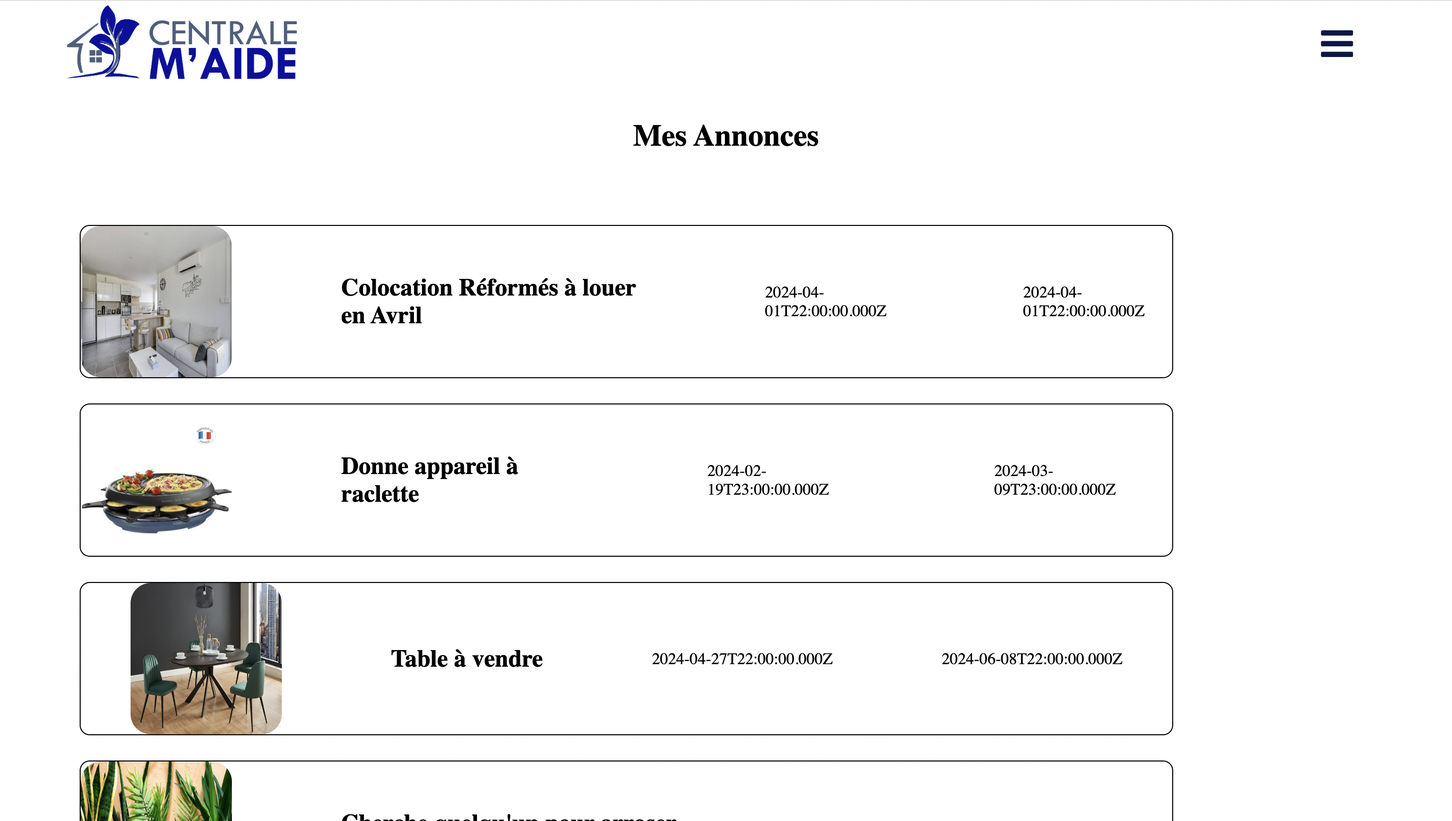
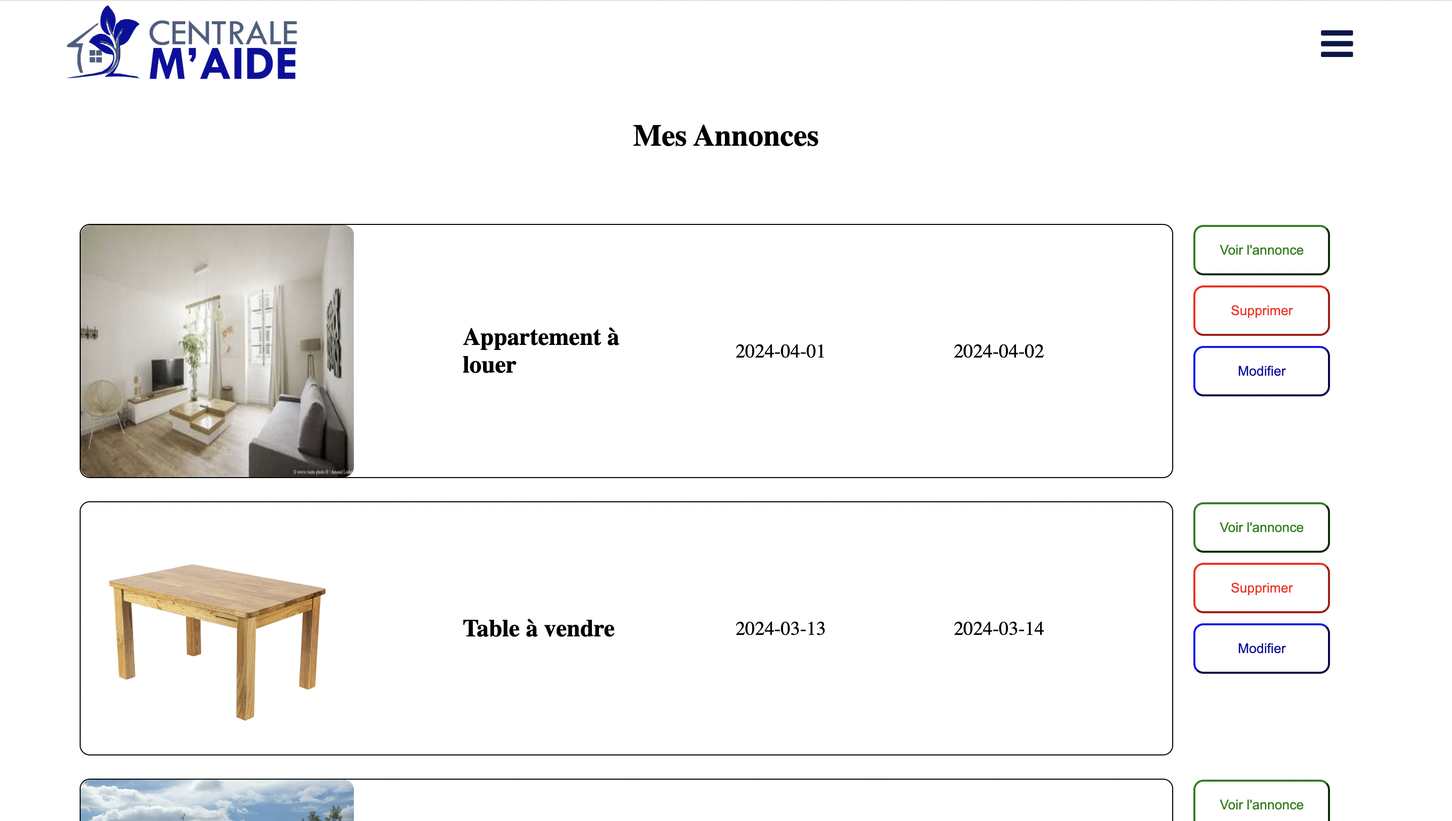
Update Images Projet 3A

diff --git a/src/promos/2023-2024/Beyaert-Alexandre/pok/temps-3/index.md b/src/promos/2023-2024/Beyaert-Alexandre/pok/temps-3/index.md
@@ -15,7 +15,7 @@ résumé: Un POK traitant de la transformation de la Supply Chain à l'ère de l
 
 
 ## Contexte
-Très concerné par l'industrie et la Supply Chain - y ayant déjà été confronté lors de ma césure via un stage chez L'Oréal et souhaitant y faire mon cadre de carrière - je souhtaite réaliser un POK dans le but d'accroître ma connaissance de la Supply Chain, en particulier les enjeux auxquels elle se retrouve confronté face à la digitalisation des industries.
+Très concerné par l'industrie et la Supply Chain - y ayant déjà été confronté lors de ma césure via un stage chez L'Oréal et souhaitant y faire mon cadre de carrière - je souhaite réaliser un POK dans le but d'accroître ma connaissance de la Supply Chain, en particulier les enjeux auxquels elle se retrouve confronté face à la digitalisation des industries.
 
 Le but du 1er sprint serait de faire un état de l'art de cette thématique : sur les enjeux d'Industrie 4.0 de Lean Management, un focus sur certaines technologies et les risques qu'ils font encourir à la Supply Chain.
 
@@ -24,17 +24,17 @@ Le 2ème sprint consisterait en la préparation d'une grille d'entretien pour qu
 ## Horodateur des sprints
 
 **Sprint 1 : état de l'art**
-| Timing | Notions de bases, définitions | SC & I4.0 | I4.0 & Lean Management | Applications concrètes d'IA et IoT dans la SC | Riskis in Digital Supply Chain |
+| Timing | Notions de bases, définitions | SC & I4.0 | I4.0 & Lean Management | Applications concrètes d'IA et IoT dans la SC | Risks in Digital Supply Chain |
 | -------| -------- | -------- | -------- | -------- | -------- |
 | Sprint 1 - Temps prévu (en heures) | 2 | 4 | 2 | 2 | 2 |
 | Sprint 1 - Temps dédié (en heures) | 2 | 5 | 3 | 2 | 2 |
 
 
 **Sprint 2**
-| Timing | Identification des intervenants | Lecture de nouveaux articles (Covid / résilience / énergie...) | Grille d'entretien | Entretiens | Analyse & Restitution |
+| Timing | Identification des intervenants | Lecture d'articles | Grille d'entretien | Entretiens | Analyse & Restitution |
 | -------| -------- | -------- | -------- | -------- | -------- |
-| Sprint 2 - Temps prévu (en heures) | 1 | 3 | 2 | 3 | 2 |
-| Sprint 2 - Temps dédié (en heures) | ? | ? | ? | ? | ? |
+| Sprint 2 - Temps prévu (en heures) | 1 | 3 | 2 | 2 | 2 |
+| Sprint 2 - Temps dédié (en heures) | 1 | 4 | 2 | 2 | 2 |
 
 
 ## Sommaire
@@ -126,7 +126,16 @@ Un bon exemple prend racine dans une étude proposée sur le Groupe Volvo. [9]
 
 #### Takt Time, Cycle Time & Lead Time : les métriques temporelles de la Supply Chain
 
-https://www.picomto.com/comprendre-le-lead-time-takt-time-et-cycle-time/
+**Takt Time**: rythme de production nécessaire pour répondre à la demande des clients, exprimé comme le temps moyen pour produire un produit.
+Calcul : Temps disponible divisé par la demande du client (en nombre d'unités).
+
+**Cycle Time**: temps nécessaire pour accomplir une opération spécifique, mesuré de son début à sa fin.
+Utilité : Dimensionner les ressources, identifier les goulots d'étranglement, produire en juste-à-temps.
+Calcul : Temps disponible divisé par le nombre d'unités produites.
+
+**Lead Time**: temps total requis pour qu'un produit traverse toute la chaîne de valeur, de l'entrée de la matière première à la livraison au client.
+Utilité : Déterminer la vitesse de réalisation, gérer les stocks, planifier la demande.
+Calcul : Soustraction de la date de fin du processus par la date de début du processus.
 
 ### Revue de la littérature
 
@@ -152,8 +161,6 @@ De plus, la Blockchain offre de nouvelles perspectives intéressantes pour la du
 Cette nouvelle révolution est également une opportunité de transformer l'industrie que nous connaissons en une **industrie plus durable**. **Les enjeux sociaux, d'économie et d'environnement durables sont un des plus grands défis de la Supply Chain à l'heure actuelle** or il s'agit d'un des objectifs de cette révolution industrielle de **minimiser le gaspillage en couplant ressources et efficacité energétique.**
 
 **Pour autant, le simple recourt à la technologie n'est pas suffisant. Leur mise en place et leur exploitation n'est pas anodine, elles nécessitent des compétences techniques et organisationelles qui peuvent s'avérer être un réel obstacle au succès de la transformation digitale de la Supply Chain.**
-
---> Ajouter paragraphe sur le Big Data Analytics qui permet d'améliorer le decision-making en manageant l'incertitude et la volatilité. Il permet d'effectuer des prédictions sur les flux de données et ainsi anticiper des tendances que ce soit au niveau des marchés (approvisionnement, besoin consommateurs..) ou également pour optimiser le transport et ainsi réduire ses coûts et ses émissions carbone, le tout améliorant la satisfaction client.
 
 Au lendemain de la crise sanitaire, l'incertitude, la volatilité, les risques - approvisionnement, crise d'un produit, retards... - ont largement été renforcés. La Supply Chain s'est complexifiée et **l'usage des nouvelles technologies est la clé pour assurer intelligence, flexibilité et agilité de la Supply Chain afin d'ajuster les achats, productions, livraisons** dans les meilleures perspectives et ainsi notamment éviter le **Bullwhip effect.**
 
@@ -188,11 +195,11 @@ La question à se poser est alors la suivante : **"Où, quand et comment les ind
 
 #### Lean Supply Chain management (LSCM) and Industry 4.0 (I4.0) [13]
 
-Les pratiques de Lean Supply Chain Management sont d'ores et déjà adoptés dans différents secteurs depuis quelques décennies. Elles consistent à intégrer les flux amont et aval des différentes entités pour augmenter la valeur, réduire les coûts et les déchets, et répondre rapidement à la demande des clients.
+Les pratiques de Lean Supply Chain Management sont d'ores et déjà adoptés dans différents secteurs depuis quelques décennies. Elles consistent à **intégrer les flux amont et aval** des différentes entités pour **augmenter la valeur, réduire les coûts et les déchets, et répondre rapidement** à la demande des clients.
 
-Dès lors, les entreprises les plus performantes sont celles prenant en compte les clients et les fournisseurs externes dans leurs processus d'amélioration interne avec pour objectif d'améliorer compétitivité et efficacité.
+Dès lors, les entreprises les plus **performantes** sont celles prenant en compte les **clients et les fournisseurs externes** dans leurs processus d'amélioration interne avec pour objectif d'améliorer compétitivité et efficacité.
 
-Une approche du flux aval pour réduire les gaspillages et atteindre la durabilité dans la Supply Chain est la production Lean (heijunka), basée sur le système de production Toyota. Elle vise a réduire les irrégularités (mura), ce qui a pour effet de réduire les déchets (muda). Néanmons, cette approche aval ne suffit pas à l'obtention de résultats durables. Il est nécessaire d'employer des méthodes similaires du développement produit jusqu'à la livraison client en passant par le sourcing, l'approvisionnement et ainsi englober tous les acteurs de la Supply Chain.
+Une approche du flux aval pour réduire les gaspillages et atteindre la durabilité dans la Supply Chain est la production Lean (heijunka), basée sur le système de production Toyota. Elle vise a réduire les irrégularités (mura), ce qui a pour effet de réduire les déchets (muda). Néanmons, cette **approche aval ne suffit pas** à l'obtention de résultats durables. Il est nécessaire d'employer des méthodes similaires du développement produit jusqu'à la livraison client en passant par le sourcing, l'approvisionnement et ainsi englober tous les acteurs de la Supply Chain.
 
 L'I4.0 offre de nouvelles possibilités en reliant les différentes entités de la Supply Chain en temps réel, il reste alors à définir si une **synergie est possible entre celle-ci et le Lean Supply Chain Management.**
 
@@ -200,77 +207,73 @@ De manière globale, cette revue de la littérature montre clairement que le **L
 
 Toutefois, cette synergie semble nuancée lorsque l'on pousse l'analyse en se penchant soit au **niveau stratégique** soit au **niveau opérationnel.**
 
-Au niveau stratégique, le LSCM soutient l'I4.0 dans la mesure où il favorise son introduction. Pour aller plus loin, la review souligne même que la LSCM est une base nécessaire au bon déploiement de l'I4.0 : étant donné la qualité de la Supply Chain que permet le LSCM, elle permet de préciser une ligne de conduite claire pour mener aux bons investissements.
+**Au niveau stratégique,** le LSCM soutient l'I4.0 dans la mesure où il favorise son introduction. Pour aller plus loin, la review souligne même que la **LSCM est une base nécessaire au bon déploiement de l'I4.0** : étant donné la qualité de la Supply Chain que permet le LSCM, elle permet de préciser une ligne de conduite claire pour mener aux bons investissements.
 
-À l'opposé, au niveau opérationnel, l'I4.0 soutient le LSCM car il améliore ses pratiques. On peut notamment mentionner l'amélioration des techniques lean tel que l'outil 5S en MSP (Maitrîse Statistiques des Procédés) ou en Total Productive Maintenance (TPM) par les technologies de l'I4.0 p
-https://www.linkedin.com/pulse/what-tpm-how-implement-benefits-implementing-best-books-india-team-1f/
+À l'opposé, **au niveau opérationnel, l'I4.0 soutient le LSCM car il améliore ses pratiques.** On peut notamment mentionner l'amélioration des techniques lean tel que l'outil 5S en MSP (Maitrîse Statistiques des Procédés) ou en Total Productive Maintenance (TPM) par les technologies de l'I4.0.
 
 ![Synergie Lean et I4.0](Lean&I4.0.png)
 
-En résumé, au niveau stratégique la LSCM stimule l'intégration durable de l'I4.0 en tenant compte de la diversification des demandes clients alors qu'au niveau opérationnel l'I4.0 améliore les performances de la LSCM en permettant l'accès à un flux continu en temps réel de l'information grâce aux technologies de CloudChain, Big Data, réalité augmentée, Blockchain...
+**En résumé, au niveau stratégique la LSCM stimule l'intégration durable de l'I4.0 en tenant compte de la diversification des demandes clients alors qu'au niveau opérationnel l'I4.0 améliore les performances de la LSCM en permettant l'accès à un flux continu en temps réel de l'information grâce aux technologies de CloudChain, Big Data, réalité augmentée, Blockchain...**
 
 De cette conclusion, la review souligne 2 leçons :
-- il semble judicieux de favoriser l'adoption de la LSCM dans un premier temps afin d'établir une Supply Chain efficace et durable conductrice de l'amélioration via l'I4.0.
-- L'I4.0 joue un rôle actif dans l'amélioration continue ce qui est la caractéristique phare du LSCM.
-
-
-Blockchain in SC https://aws.amazon.com/fr/blockchain/blockchain-for-supply-chain-track-and-trace/#:~:text=With%20blockchain%2C%20supply%20chain%20companies,at%20any%20point%20in%20time.
+- il semble **judicieux de favoriser l'adoption de la LSCM dans un premier temps** afin d'établir une Supply Chain efficace et durable conductrice de l'amélioration via l'I4.0.
+- **L'I4.0 joue un rôle actif dans l'amélioration continue** ce qui est la caractéristique phare du LSCM.
 
 
 #### Impact of Digital Technology on Supply Chain Efficiency in Manufacturing Industry [14]
 
-Les résultats de l'étude réalisée à travers cette revue de littérature démontrent que l'IoT et l'IA sont les deux technologies les plus susceptibles d'atteindre l'autonomie et la capacité prédictive nécessaires pour répondre aux futures attentes de la chaîne d'approvisionnement.
+Les résultats de l'étude réalisée à travers cette revue de littérature démontrent que **l'IoT et l'IA** sont les deux technologies les plus susceptibles d'atteindre l'autonomie et la capacité prédictive nécessaires pour répondre aux futures attentes de la chaîne d'approvisionnement.
 
-Pour autant, 80% des pratiques liées à la transformation digitale ont échoué. En cause, les entreprises n'identifient pas clairement quelle technologie devrait être mise en plase en concordance avec leurs objectifs stratégiques de opérationnels et optent aveuglement sur une technologie pour le plaisir de la technologie.
+Pour autant, **80% des pratiques liées à la transformation digitale ont échoué.** En cause, les entreprises **n'identifient pas clairement quelle technologie devrait être mise en place** en concordance avec leurs objectifs stratégiques de opérationnels et **optent aveuglement sur une technologie pour le plaisir de la technologie.**
 
 Dès lors, le but de cette étude est de répondre aux 2 questions suivantes :
 - "Comment l'IA et l'IoT améliorent l'effiacité de la SUpply Chain ?"
 - "Quels facteurs influencent le succès de l'implémentation d'une Supply Chain digitale ?"
 
-Kevin Ashton, pionner britannique de la technologie, a décrit le premier l'IoT comme "l'identification unique d'un objet en connectant des choses physiques via la technologie et son réseau virtuel. Trois éléments sont nécessaires pour atteindre la fonction de l'IoT : l'acquisition de données, le transfert de données et l'analyse de données. L'IoT devient alors un réseau intelligent basé sur l'internet qui permet non seulement de collecter, transférer et analyser les données d'un appareil mais également d'observer en continu tout son environnement.
+Kevin Ashton, pionner britannique de la technologie, a décrit le premier l'IoT comme "l'identification unique d'un objet en connectant des choses physiques via la technologie et son réseau virtuel. Trois éléments sont nécessaires pour atteindre la fonction de l'IoT : **l'acquisition de données, le transfert de données et l'analyse de données.** L'IoT devient alors un réseau intelligent basé sur l'internet qui permet non seulement de collecter, transférer et analyser les données d'un appareil mais également d'observer en continu tout son environnement.
 
-L'IA quant à elle, va être couplée aux larges quantitées de données récupérées par l'IoT pour effectuer des prédictions, aider à la prise de décision. Ses applications dans la Supply Chain prennent place ans le transport, la maintenance prédictive, la prévision de la demande.
+L'IA quant à elle, va être couplée aux larges quantitées de données récupérées par l'IoT pour **effectuer des prédictions, aider à la prise de décision.** Ses applications dans la Supply Chain prennent place dans le transport, la maintenance prédictive, la prévision de la demande.
 
-Néanmoins, des doutes persistent quant à l'IA, notamment en ce qui concerne ses implications éthiques notamment sur l'éventualité d'accorder aux systèmes intelligents, comme les robots, les mêmes droits que les êtres humains. De plus, l'extraction d'informations sensibles peut compromettre la sécurité de la vie privée et même influencer les affaires politiques.
+Néanmoins, des doutes persistent quant à l'IA, notamment en ce qui concerne ses **implications éthiques** notamment sur l'éventualité d'accorder aux systèmes intelligents, comme les robots, les mêmes droits que les êtres humains. De plus, l'extraction d'informations sensibles peut compromettre la sécurité de la vie privée et même influencer les affaires politiques.
 
-Le développement de l'IA et l'IoT ont largement favorisé l'émergence de l'Industrie 4.0 et des usines intelligentes. L'IoT est alors décrite comme la partie hardware de la technologie produisant une grande quantité d'information, dirigée par l'IA en tant que software.
+Le développement de l'IA et l'IoT ont largement favorisé l'émergence de l'Industrie 4.0 et des usines intelligentes. **L'IoT est alors décrite comme la partie hardware de la technologie produisant une grande quantité d'information, dirigée par l'IA en tant que software.**
 
-Leur intérêt est le partage de l'information pertinente en temps réel permettant ainsi de prendre de meilleurs déceisions, d'optimiser les opérations, de mieux appréhender les risques. Cependant, ces technologies ne sont pas le seul élément clé contribuant à l'amélioration de la Supply Chain : elles sont un outil utile à la favorisation de la communication entre les différentes parties prenantes de la Supply Chain. "L'essence de l'IoT est de founrir des informations et des les intégrer. Cependant, ce qui améliore réellement la performance opérationnel est la vitesse de transmission de cette information et son niveau de transparence". L'information doit être complétée d'analyse, de traitement pour tirer des décisions.
+Leur intérêt est le **partage de l'information pertinente en temps réel** permettant ainsi de prendre de meilleurs déceisions, d'optimiser les opérations, de mieux appréhender les risques. Cependant, ces technologies ne sont pas le seul élément clé contribuant à l'amélioration de la Supply Chain : elles sont un outil utile à la favorisation de la communication entre les différentes parties prenantes de la Supply Chain. **"L'essence de l'IoT est de fournir des informations et des les intégrer. Cependant, ce qui améliore réellement la performance opérationnel est la vitesse de transmission de cette information et son niveau de transparence"**. L'information doit être complétée d'analyse, de traitement pour tirer des décisions.
 
 **IoT applications**
 Les applications de l'IoT sont diverses. Elles permettent d'optimiser la précision, l'intégration et la transparence de l'information.
-General Motors, par exemple, utilise les données de capteurs pour déterminer l'humidité de l'environnement de peinture des voitures. Cette donnée est envoyée à un algorithme afin de savoir si la dose est dans la gamme d'acceptation, sinon la voiture est envoyée à un autre endroit ce qui permet de miniser la re-peinture et de maximiser le temps de fonctionnement de l'usine. Cette innovation à elle seule permet à General Motors d'économiser des millions de dollars par an.
+General Motors, par exemple, utilise les données de capteurs pour déterminer l'humidité de l'environnement de peinture des voitures. Cette donnée est envoyée à un algorithme afin de savoir si la dose est dans la gamme d'acceptation, sinon la voiture est envoyée à un autre endroit ce qui permet de miniser la re-peinture et de maximiser le temps de fonctionnement de l'usine. **Cette innovation à elle seule permet à General Motors d'économiser des millions de dollars par an.**
 
-L'IoT permet également l'amélioration des stocks de 2 manières différentes. D'une part il facilite le partage des stocks inutilisés entre entreprises, d'autre part il permet de visualiser l'état des stocks en temps réel et ainsi mieux les gérer ressources. En le combinant avec l'utilisation d'un ERP, l'IoT facilite le Product Lifecycle Management.
+L'IoT permet également l'amélioration des stocks de 2 manières différentes. D'une part il facilite le partage des stocks inutilisés entre entreprises, d'autre part il permet de visualiser l'état des stocks en temps réel et ainsi mieux les gérer ressources. En le combinant avec l'utilisation d'un ERP, **l'IoT facilite le Product Lifecycle Management.**
 
-Également, la mise en oeuvre de composants IoT sur les lignes de production permmet de surveiller en permanence l'état des véhicules, d'anticiper les dommages ou défaillances potentielles et prendre des mesures préventives.
+Également, la mise en oeuvre de composants IoT sur les lignes de production permmet de **surveiller en permanence l'état des véhicules, d'anticiper les dommages ou défaillances potentielles et prendre des mesures préventives.**
 
 **IA applications**
 Différentes IA sont envisagées pour améliorer le management de la SUpply Chain, des réseaux de neurones (ANN) à la réalité virtuelle (VR) en passant par les algorithmes génétiques (AG).
 
-Ces applications permettent d'améliorer les prévisions de la demande, les décisions marketing, la maintenance système, la tarification, le choix des fournisseurs, la fabrication des produits. Elle aide notamment la logistique à éviter le gachis de ressources et diminue les risques business tels que le "Bullwhip Effect".
+Ces applications permettent d'améliorer les prévisions de la demande, les décisions marketing, la maintenance système, la tarification, le choix des fournisseurs, la fabrication des produits. Elle aide notamment la logistique à éviter le gachis de ressources et **diminue les risques business tels que le "Bullwhip Effect".**
 
-Son intérêt est de développer une stratégie opérationelle dynamique en se basant sur l'analyse des données historiques. Ainsi, elle est capable de minimiser les risques même dans des périodes chaotiques. Par exemple, lors des inondations en Thaïlande en août 2017, la division de la Supply Chain Management d'IBM à Singapour a rapidement réagi en anticipant les impacts sur les fabricants thaïlandais de disques durs. Grâce à l'IA, ils ont pu sélectionner des fournisseurs alternatifs, passer des commandes et organiser le transport afin de maintenir l'approvisionnement en disques durs et éviter toute interruption de la production.
+Son intérêt est de développer une **stratégie opérationelle dynamique** en se basant sur l'analyse des données historiques. Ainsi, elle est capable de minimiser les risques même dans des périodes chaotiques. Par exemple, lors des **inondations en Thaïlande en août 2017,** la division de la Supply Chain Management d'IBM à Singapour a rapidement réagi en anticipant les impacts sur les fabricants thaïlandais de disques durs. **Grâce à l'IA, ils ont pu sélectionner des fournisseurs alternatifs, passer des commandes et organiser le transport afin de maintenir l'approvisionnement en disques durs et éviter toute interruption de la production.**
 
-Cependant, pour effectuer de bonnes prédictions il est nécessaire d'avoir une base de données conséquente, précise, bien intégrée par l'algorithme. Une mauvaise prédiction pourrait être dramatique comme ce fut le cas pour Nike en 2001. L'entreprise a introduit un programme de prédiction de la demande mais n'a pas réussi à le mettre en œuvre ce qui a conduit à un stock insuffisant de Air Jordans et à un excès de types moins populaires. Cette expérience valut environ 100 millions de dollars de ventes perdues à Nike.
+Cependant, pour effectuer de bonnes prédictions il est n**écessaire d'avoir une base de données conséquente, précise, bien intégrée par l'algorithme.** Une mauvaise prédiction pourrait être dramatique comme ce fut le cas pour **Nike en 2001.** L'entreprise a introduit un programme de prédiction de la demande mais n'a pas réussi à le mettre en œuvre ce qui a conduit à un stock insuffisant de Air Jordans et à un excès de types moins populaires. Cette expérience valut **environ 100 millions de dollars de ventes perdues à Nike.**
 
-L'IA est également efficace pour automatiser les tâches répétitives coutant du temps et de l'argent : algorithmes d'emballage, appariement des véhicules et des cargaisons, planification des AGV (Automated Guided Vehicles).
+L'IA est également efficace pour **automatiser les tâches répétitives coutant du temps et de l'argent** : algorithmes d'emballage, appariement des véhicules et des cargaisons, planification des AGV (Automated Guided Vehicles).
 
-Tungsten Network (entreprise mondiale de facturation électronique fournissant des services de financement de la SUpply Chain) a rapporté qu'elle perdait en moyenne 125 heures par semaine sur des tâches commerciales triviales telles que des routines répétitives, des traitements de demandes fournisseurs ou des audits comptables, ce qui représente environ 6 500 heures par an de travail inefficace. En réponse, certaines organisations adoptent des applications avancées d'IA, telles que des robots, pour automatiser ces tâches répétitives.
+**Tungsten Network** (entreprise mondiale de facturation électronique fournissant des services de financement de la SUpply Chain) a rapporté qu'elle perdait en moyenne 125 heures par semaine sur des tâches commerciales triviales telles que des routines répétitives, des traitements de demandes fournisseurs ou des audits comptables, ce qui représente environ 6 500 heures par an de travail inefficace. En réponse, certaines organisations adoptent des applications avancées d'IA, telles que des robots, pour automatiser ces tâches répétitives.
 
-Un exemple typique est l'usine intelligente d'Audi, où la logistique et le transport des pièces sont gérés par des systèmes de conduite autonome, réalisant ainsi une véritable automatisation de l'usine. Des robots légers remplacent le travail fastidieux dans l'installation de parties faciles et l'assistance du système d'assemblage indique à l'opérateur où assembler les pièces les plus difficiles en plus de lui indiquer les vérifications finales.
+Un exemple typique est **l'usine intelligente d'Audi**, où la logistique et le transport des pièces sont gérés par des systèmes de conduite autonome, réalisant ainsi une véritable automatisation de l'usine. Des robots légers remplacent le travail fastidieux dans l'installation de parties faciles et l'assistance du système d'assemblage indique à l'opérateur où assembler les pièces les plus difficiles en plus de lui indiquer les vérifications finales.
 
 **Facteurs influençant le succès d'implémentation de la Supply Chain digitale**
-Les facteurs influençant la mise en œuvre réussie de la chaîne d'approvisionnement numérique sont variés et comprennent des éléments internes et externes tels que l'internationalisation croissante des entreprises, la fluctuation de la demande et les cycles de production plus rapides. Malgré les avantages potentiels, de nombreux obstacles persistent, notamment des défis technologiques, organisationnels et stratégiques. Bien que les entreprises investissent davantage dans la digitalisation de leur Supply Chain, seulement 5% sont satisfaites de leur transformation.
+Les facteurs influençant la mise en œuvre réussie de la chaîne d'approvisionnement numérique sont variés et comprennent des éléments internes et externes tels que l'internationalisation croissante des entreprises, la fluctuation de la demande et les cycles de production plus rapides. Malgré les avantages potentiels, de nombreux obstacles persistent, notamment des **défis technologiques, organisationnels et stratégiques.** Bien que les entreprises investissent davantage dans la digitalisation de leur Supply Chain, **seulement 5% sont satisfaites de leur transformation.**
 
-3 freins majoritaires aux transformations digitales semblent se prononcer.
+**3 freins majoritaires aux transformations digitales semblent se prononcer.**
 
-Le 1er est le manque de budget, la mise en place des technologies peut se montrer très onéreuse et manquer de visibilité quant à son retour sur investissement dans la mesure où ce dernier est difficile à déterminer. Qui plus est, l'intégration de ces technologies recquiert le recrutement de talents spécialisés dans ces domaines puis la formation des employés à ces nouvelles technologies.
+Le 1er est le **manque de budget,** la mise en place des technologies peut se montrer très onéreuse et **manquer de visibilité quant à son retour sur investissement** dans la mesure où ce dernier est difficile à déterminer. Qui plus est, l'intégration de ces technologies recquiert le **recrutement de talents** spécialisés dans ces domaines puis la formation des employés à ces nouvelles technologies.
 
-Vient ensuite le manque de lignes de conduites, de stratégies de déploiement. Bien que certaines entreprises soient déjà équipées en WMS, TMS, OMS... elles n'ont pas de ligne de conduite précise pour digitaliser leur métier. Il existe diverses façons de digitalisation mais la plupart des entreprises choisiront la technologie la plus populaire plutôt que celle la plus appropriée à leur développement. Ce n'est pas tant l'application de la technologie numérique qui détermine l'efficacité du management de la Supply Chain, mais plutôt le degré d'adaptation entre le mode opératoire et la technologie de l'information. La transformation réussie d'une entreprise vers le numérique repose sur le changement de business modèle.
+Vient ensuite le **manque de lignes de conduites, de stratégies de déploiement.** Bien que certaines entreprises soient déjà équipées en WMS, TMS, OMS... elles n'ont pas de ligne de conduite précise pour digitaliser leur métier. Il existe diverses façons de digitalisation mais **la plupart des entreprises choisiront la technologie la plus populaire plutôt que celle la plus appropriée à leur développement.** Ce n'est pas tant l'application de la technologie numérique qui détermine l'efficacité du management de la Supply Chain, mais plutôt le degré d'adaptation entre le mode opératoire et la technologie de l'information. La transformation réussie d'une entreprise vers le numérique repose sur le changement de business modèle.
 
-Enfin arrive la question des droits sociaux et de l'environnement. Une enquête du MIT Sloan Management Review révèle que la résistance au changement, notamment chez les dirigeants d'entreprise, constitue un obstacle majeur à la transformation numérique. 43% des 4 500 directeurs des systèmes d'information (CIO) interrogés dans l'enquête Harvard Nash/KPMG CIO ont identifié la résistance au changement comme le plus grand obstacle à une stratégie numérique réussie.
-Cette réticence est exacerbée par les préoccupations en matière de sécurité et de confidentialité des données, entravant ainsi la transparence nécessaire à la réussite des chaînes d'approvisionnement numériques. De plus, les risques croissants liés à la cybersécurité, notamment les cyber-attaques provenant de dispositifs IoT, soulignent l'urgence d'une législation et d'une réglementation appropriées pour garantir la sécurité et accroître la confiance dans le développement numérique.
+Enfin arrive la **question des droits sociaux et de l'environnement.** Une enquête du MIT Sloan Management Review révèle que la résistance au changement, notamment chez les dirigeants d'entreprise, constitue un obstacle majeur à la transformation numérique. **43% des 4 500 directeurs des systèmes d'information (CIO) interrogés dans l'enquête Harvard Nash/KPMG CIO ont identifié la résistance au changement comme le plus grand obstacle à une stratégie numérique réussie.**
+Cette réticence est exacerbée par les **préoccupations en matière de sécurité et de confidentialité des données**, entravant ainsi la transparence nécessaire à la réussite des chaînes d'approvisionnement numériques. De plus, les risques croissants liés à la cybersécurité, notamment les cyber-attaques provenant de dispositifs IoT, soulignent **l'urgence d'une législation et d'une réglementation appropriées** pour garantir la sécurité et accroître la confiance dans le développement numérique.
 
 #### Knowledge Risks in Digital Supply Chains: A Literature Review [15]
 
@@ -301,6 +304,9 @@ Pourtant, une **gestion appropriée** de ces risques peut contribuer à renforce
 ## Sprint 2
 
 ### Identification des intervenants
+
+Différents experts de la Supply Chain ont été sollicités, la plupart à l'aide de Florian Magnani que je remercie amplement.
+Parmi eux, deux ont accepté de mettre à disposition de leur temps pour m'accorder une interview : Richard Markoff et Olivier Gléron.
 
 ### Lecture de nouveaux articles (Covid / résilience / énergie...)
 

diff --git a/src/projets/2023-2024/Centrale M'Aide/index.md b/src/projets/2023-2024/Centrale M'Aide/index.md
@@ -226,17 +226,24 @@ Il est intéressant de remarquer qu'une erreur dans le mot de passe à la connex
 
 #### Répertoire et aperçu d'une annonce
 
-| Annonces | Aperçu d'une annonce | Mes annonces |
-|:--------:|:--------:|:--------:|
-| ![Annonces](Annonces.png) | ![Annonce](Annonce.png) | ![Mes annonces](Mes_annonces.png) |
+| Annonces | Aperçu d'une annonce | Mes annonces | Mes favoris |
+|:--------:|:--------:|:--------:|:--------:|
+| ![Annonces](menu_deroulant.png) | ![Annonce](Annonce.png) | ![Mes annonces](mes_annonces.png) | ![Mes favoris](mes_favoris.png)| 
 
 Le menu déroulant est présent sur toutes les pages du site une fois l'utilisateur connecté. Il permet d'accéder rapidement aux pages principales.
 
 #### Dépôt d'une annonce et aperçu du profil
 
-| Dépôt d'une annonce | Aperçu du profil |
+| Dépôt d'une annonce | Aperçu du profil | Modification d'une annonce | Modification du profil |
+|:--------:|:--------:|:--------:|:--------:|
+| ![Depôt d'une annonce](Depot_annonce.png) | ![Profil](mon_profil.png) | ![Modif annonce](modif_annonce.png) | ![Modif profil](modif_mon_profil.png) |
+
+#### Carte des annonces
+
+| Carte des annonces | Aperçu d'une annonce sur la carte |
 |:--------:|:--------:|
-| ![Depôt d'une annonce](Depot_annonce.png) | ![Profil](Profil.png) |
+| ![Carte des annonces](carte_annonces.png) | ![Aperçu d'une annonce](carte_une_annonce.png) |
+
 
 ### Back-end
 
